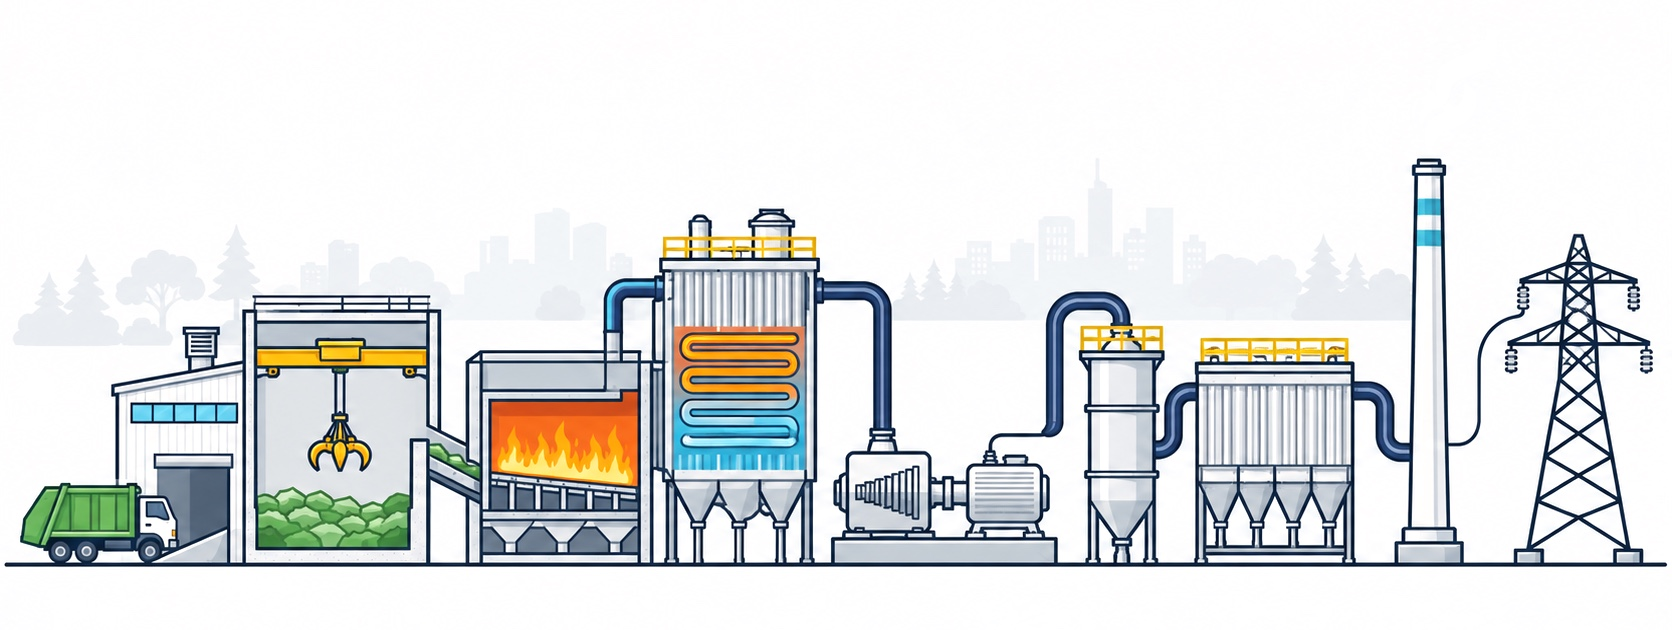
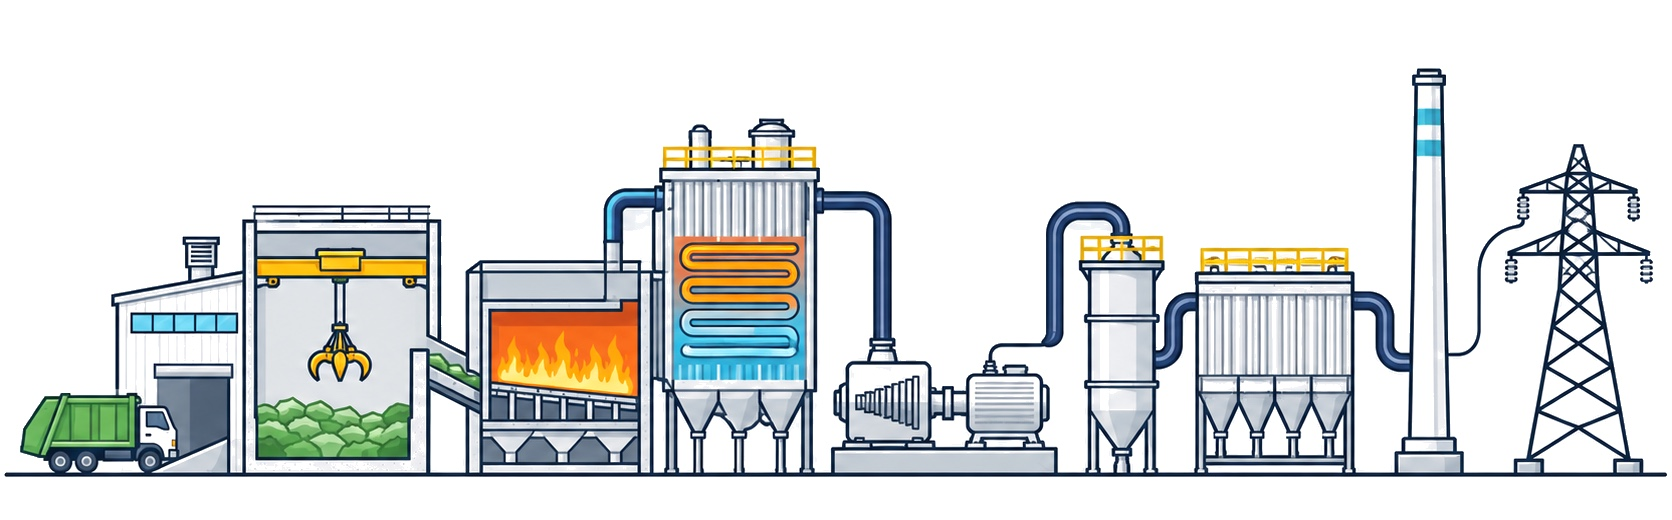
New tech card photos, factory photo under intro headline, tighter process illustration without silhouettes

Changed region(s): [[0.0, 0.1231, 1.0, 0.9231]]

diff --git a/ko/index.html b/ko/index.html
@@ -21,7 +21,7 @@
 <link rel="preconnect" href="https://fonts.gstatic.com" crossorigin>
 <link href="https://fonts.googleapis.com/css2?family=Inter+Tight:wght@400;500;600;700&display=swap" rel="stylesheet">
 <link rel="stylesheet" href="https://cdn.jsdelivr.net/gh/orioncactus/pretendard@v1.3.9/dist/web/static/pretendard.min.css">
-<link rel="stylesheet" href="../style.css?v=19">
+<link rel="stylesheet" href="../style.css?v=26">
 </head>
 <body>
 
@@ -111,7 +111,13 @@
 <!-- ============ STATEMENT ============ -->
 <section class="statement" id="about">
   <div class="wrap">
-    <h2 class="reveal">연기로 끝나는 소각장이 아닙니다.<br>쓰레기에서 시작하는 발전소입니다.</h2>
+    <div class="statement__lead">
+      <h2 class="reveal">연기로 끝나는 소각장이 아닙니다.<br>쓰레기에서 시작하는 발전소입니다.</h2>
+      <figure class="statement__photo reveal">
+        <img src="../assets/ari/04-factory.jpg" alt="혁진 공장 전경" width="1448" height="1086" loading="lazy">
+        <figcaption>혁진 공장 전경 · 대한민국</figcaption>
+      </figure>
+    </div>
     <div class="statement__body reveal">
       <p>혁진에너지플랜트엔지니어링(HJE)은 45년 넘게 환경 분야 한 길만 걸어왔습니다. 폐기물을 완전히 태우고 배출가스는 깨끗하게 처리하며, 그 열로 만든 전기를 지역 사회와 산업 현장에 공급합니다.</p>
       <p>한국과 말레이시아에서 저희 설비가 가동 중이며, 필리핀·인도네시아·베트남·캄보디아·코스타리카 정부로부터 사업 제안 요청을 받았습니다.</p>
@@ -190,9 +196,10 @@
       <h2>HJE 발전소는 이렇게 움직입니다</h2>
     </div>
 
+
     <div class="plant reveal" id="plant">
-      <img src="../assets/plant-illustration.jpg" alt="HJE 폐기물 발전 플랜트: 반입, 연소, 열 회수, 배출가스 정화, 전기 생산" width="1672" height="630">
-      <svg class="plant__fx" viewBox="0 170 1672 630" aria-hidden="true">
+      <img src="../assets/plant-illustration.jpg?v=3" alt="HJE 폐기물 발전 플랜트: 반입, 연소, 열 회수, 배출가스 정화, 전기 생산" width="1672" height="520">
+      <svg class="plant__fx" viewBox="0 260 1672 520" aria-hidden="true">
         <defs>
           <radialGradient id="gOrange"><stop offset="0" stop-color="#ff7a1a" stop-opacity=".75"/><stop offset="1" stop-color="#ff7a1a" stop-opacity="0"/></radialGradient>
           <radialGradient id="gYellow"><stop offset="0" stop-color="#f5b400" stop-opacity=".8"/><stop offset="1" stop-color="#f5b400" stop-opacity="0"/></radialGradient>
@@ -254,9 +261,9 @@
     </ol>
 
     <div class="tech__grid">
-      <article class="tcard reveal"><img src="../assets/ari/02-stack.jpg" alt="소각로와 배출가스 처리 설비"><div><h3>소각 설비</h3><p>생활·산업·의료 폐기물 소각로와 연소로 설비</p></div></article>
+      <article class="tcard reveal"><img src="../assets/ari/09-incinerator.jpg" alt="관찰창으로 소각로 화격자를 점검하는 엔지니어"><div><h3>소각 설비</h3><p>생활·산업·의료 폐기물 소각로와 연소로 설비</p></div></article>
       <article class="tcard reveal"><img src="../assets/gemini-engineers.jpg" alt="발전 설비를 점검하는 엔지니어"><div><h3>발전 플랜트 엔지니어링</h3><p>폐기물 에너지화 발전소의 설계·시공·운영 지원</p></div></article>
-      <article class="tcard reveal"><img src="../assets/ari/04-factory.jpg" alt="HJE 공장"><div><h3>PHG 발전 시스템</h3><p>가스 버너와 제올라이트를 최적화한 열분해 수소 가스화(PHG) 발전소</p></div></article>
+      <article class="tcard reveal"><img src="../assets/ari/10-phg.jpg" alt="열분해 가스화 반응기와 가스엔진 발전기"><div><h3>PHG 발전 시스템</h3><p>가스 버너와 제올라이트를 최적화한 열분해 수소 가스화(PHG) 발전소</p></div></article>
     </div>
 
     <ul class="tech__list reveal">
@@ -416,6 +423,6 @@
   </div>
 </footer>
 
-<script src="../main.js?v=19"></script>
+<script src="../main.js?v=26"></script>
 </body>
 </html>

diff --git a/index.html b/index.html
@@ -20,7 +20,7 @@
 <link rel="preconnect" href="https://fonts.googleapis.com">
 <link rel="preconnect" href="https://fonts.gstatic.com" crossorigin>
 <link href="https://fonts.googleapis.com/css2?family=Inter+Tight:wght@400;500;600;700&display=swap" rel="stylesheet">
-<link rel="stylesheet" href="style.css?v=19">
+<link rel="stylesheet" href="style.css?v=26">
 </head>
 <body>
 
@@ -110,7 +110,13 @@
 <!-- ============ STATEMENT ============ -->
 <section class="statement" id="about">
   <div class="wrap">
-    <h2 class="reveal">Not an incinerator that ends with smoke. A power plant that starts with waste.</h2>
+    <div class="statement__lead">
+      <h2 class="reveal">Not an incinerator that ends with smoke. A power plant that starts with waste.</h2>
+      <figure class="statement__photo reveal">
+        <img src="assets/ari/04-factory.jpg" alt="HJE factory building in Korea" width="1448" height="1086" loading="lazy">
+        <figcaption>HJE factory · Republic of Korea</figcaption>
+      </figure>
+    </div>
     <div class="statement__body reveal">
       <p>HYUCKJIN Energy Plant Engineering (HJE) has worked only in environmental engineering for more than 45 years. We burn waste completely, keep the flue gas clean, and send the heat to generate electricity for the communities and industries around the plant.</p>
       <p>Our plants run in Korea and Malaysia, and governments in the Philippines, Indonesia, Vietnam, Cambodia and Costa Rica have asked us for proposals.</p>
@@ -189,9 +195,10 @@
       <h2>How a HJE plant works</h2>
     </div>
 
+
     <div class="plant reveal" id="plant">
-      <img src="assets/plant-illustration.jpg" alt="HJE waste-to-energy plant: receiving, combustion, heat recovery, flue gas cleaning and power generation" width="1672" height="630">
-      <svg class="plant__fx" viewBox="0 170 1672 630" aria-hidden="true">
+      <img src="assets/plant-illustration.jpg?v=3" alt="HJE waste-to-energy plant: receiving, combustion, heat recovery, flue gas cleaning and power generation" width="1672" height="520">
+      <svg class="plant__fx" viewBox="0 260 1672 520" aria-hidden="true">
         <defs>
           <radialGradient id="gOrange"><stop offset="0" stop-color="#ff7a1a" stop-opacity=".75"/><stop offset="1" stop-color="#ff7a1a" stop-opacity="0"/></radialGradient>
           <radialGradient id="gYellow"><stop offset="0" stop-color="#f5b400" stop-opacity=".8"/><stop offset="1" stop-color="#f5b400" stop-opacity="0"/></radialGradient>
@@ -253,9 +260,9 @@
     </ol>
 
     <div class="tech__grid">
-      <article class="tcard reveal"><img src="assets/ari/02-stack.jpg" alt="Incinerator and flue gas treatment"><div><h3>Incinerator systems</h3><p>Municipal, industrial and hospital waste incinerators and furnace systems.</p></div></article>
+      <article class="tcard reveal"><img src="assets/ari/09-incinerator.jpg" alt="Engineer checking the grate furnace through an inspection window"><div><h3>Incinerator systems</h3><p>Municipal, industrial and hospital waste incinerators and furnace systems.</p></div></article>
       <article class="tcard reveal"><img src="assets/gemini-engineers.jpg" alt="Engineers inspecting plant equipment"><div><h3>Power plant engineering</h3><p>Waste-to-energy power plant design, construction and operation support.</p></div></article>
-      <article class="tcard reveal"><img src="assets/ari/04-factory.jpg" alt="HJE factory"><div><h3>PHG power systems</h3><p>Pyrolysis hydrogen gasification (PHG) power plants with optimized gas burner and zeolite.</p></div></article>
+      <article class="tcard reveal"><img src="assets/ari/10-phg.jpg" alt="Pyrolysis gasification reactors connected to a gas engine generator"><div><h3>PHG power systems</h3><p>Pyrolysis hydrogen gasification (PHG) power plants with optimized gas burner and zeolite.</p></div></article>
     </div>
 
     <ul class="tech__list reveal">
@@ -415,6 +422,6 @@
   </div>
 </footer>
 
-<script src="main.js?v=19"></script>
+<script src="main.js?v=26"></script>
 </body>
 </html>

diff --git a/style.css b/style.css
@@ -341,3 +341,9 @@ html[lang="ko"] .eyebrow{letter-spacing:.04em}
 .flow li{cursor:pointer}
 @keyframes stepBar{from{transform:scaleX(0)}to{transform:scaleX(1)}}
 @media (prefers-reduced-motion:reduce){.fx-under,.fx-path{stroke-dashoffset:0}.fx-dot,.fx-glow{opacity:.6}}
+
+/* ===== company intro: factory photo ===== */
+.statement__photo{margin-top:clamp(28px,3vw,44px);max-width:560px}
+.statement__photo img{width:100%;aspect-ratio:2.2/1;object-fit:cover;object-position:center 38%;border-radius:4px}
+.statement__photo figcaption{font-size:13px;color:var(--muted);margin-top:10px}
+.tech .sec-head{margin-bottom:clamp(8px,1.5vw,20px)}

diff --git a/tools/plant_svg.py b/tools/plant_svg.py
@@ -1,5 +1,5 @@
 # Generates the animated SVG layer for the Technology section and injects it into index.html / ko/index.html.
-# Coordinates are in the original illustration's pixels (1672 x 941); the site image is cropped to y 170..800.
+# Coordinates are in the original illustration's pixels (1672 x 941); the site image is cropped to y 260..780.
 import re
 FLOWS = [  # step, kind, points
   (1, 'waste', [(150, 706), (262, 706)]),
@@ -20,8 +20,8 @@ GLOWS = [  # step, gradient, cx, cy, r
 ]
 def d(pts): return 'M' + ' L'.join(f'{x},{y}' for x, y in pts)
 out = ['<div class="plant reveal" id="plant">',
-       '  <img src="{A}plant-illustration.jpg" alt="{ALT}" width="1672" height="630">',
-       '  <svg class="plant__fx" viewBox="0 170 1672 630" aria-hidden="true">',
+       '  <img src="{A}plant-illustration.jpg" alt="{ALT}" width="1672" height="520">',
+       '  <svg class="plant__fx" viewBox="0 260 1672 520" aria-hidden="true">',
        '    <defs>',
        '      <radialGradient id="gOrange"><stop offset="0" stop-color="#ff7a1a" stop-opacity=".75"/><stop offset="1" stop-color="#ff7a1a" stop-opacity="0"/></radialGradient>',
        '      <radialGradient id="gYellow"><stop offset="0" stop-color="#f5b400" stop-opacity=".8"/><stop offset="1" stop-color="#f5b400" stop-opacity="0"/></radialGradient>',
